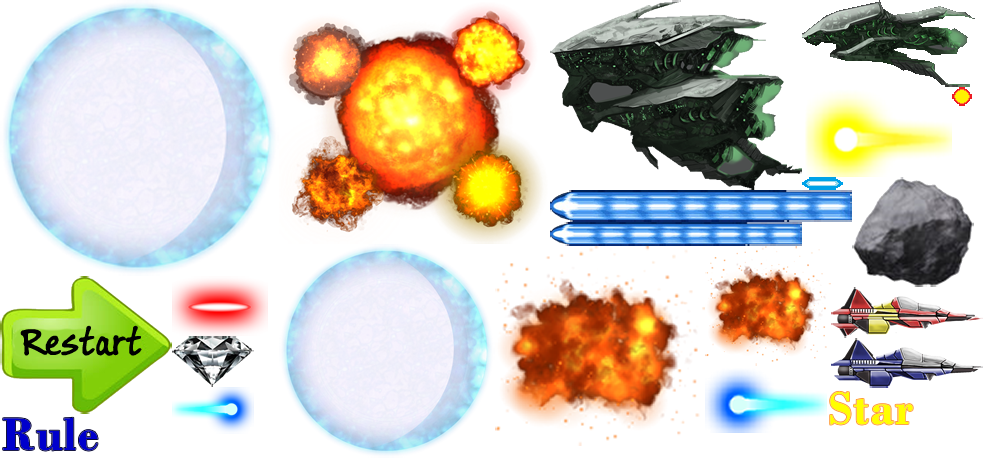
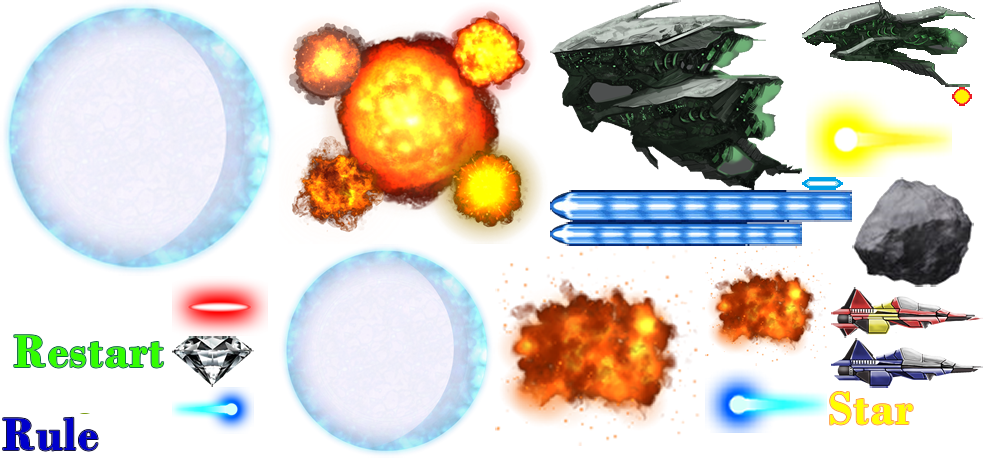
changes restart button, instruction, socre to levelup

Changed region(s): [[0.0, 0.5808, 0.1831, 0.917]]

diff --git a/Scripts/managers/collision.js b/Scripts/managers/collision.js
@@ -51,14 +51,14 @@ var managers;
                         createjs.Sound.play("diamond_sound");
                         prime.Reset();
                         other.Reset();
-                        core.score += 666;
+                        core.score += 300;
                     }
                     if (other.name === "player_bullet_update") {
                         createjs.Sound.play("diamond_sound");
                         if (prime.name === "enemy3") {
                             prime.destroied(newFrameRate);
                             other.Reset();
-                            core.score += 999;
+                            core.score += 600;
                         }
                     }
                     if (other.name === "friend_bullet") {
@@ -66,7 +66,7 @@ var managers;
                         prime.destroy();
                         //prime.ResetFrameRate(newFrameRate);
                         other.Reset();
-                        core.score += 999;
+                        core.score += 600;
                     }
                 }
             }

diff --git a/Scripts/managers/collision.ts b/Scripts/managers/collision.ts
@@ -66,7 +66,7 @@ module managers {
                         createjs.Sound.play("diamond_sound");
                         prime.Reset();
                         other.Reset();
-                        core.score += 666;
+                        core.score += 300;
 
                     }
 
@@ -78,7 +78,7 @@ module managers {
                           prime.destroied(newFrameRate);
 
                         other.Reset();
-                        core.score += 999;
+                        core.score += 600;
 
                       }
                         
@@ -90,7 +90,7 @@ module managers {
                         prime.destroy();
                         //prime.ResetFrameRate(newFrameRate);
                         other.Reset();
-                        core.score += 999;
+                        core.score += 600;
 
                     }
 
